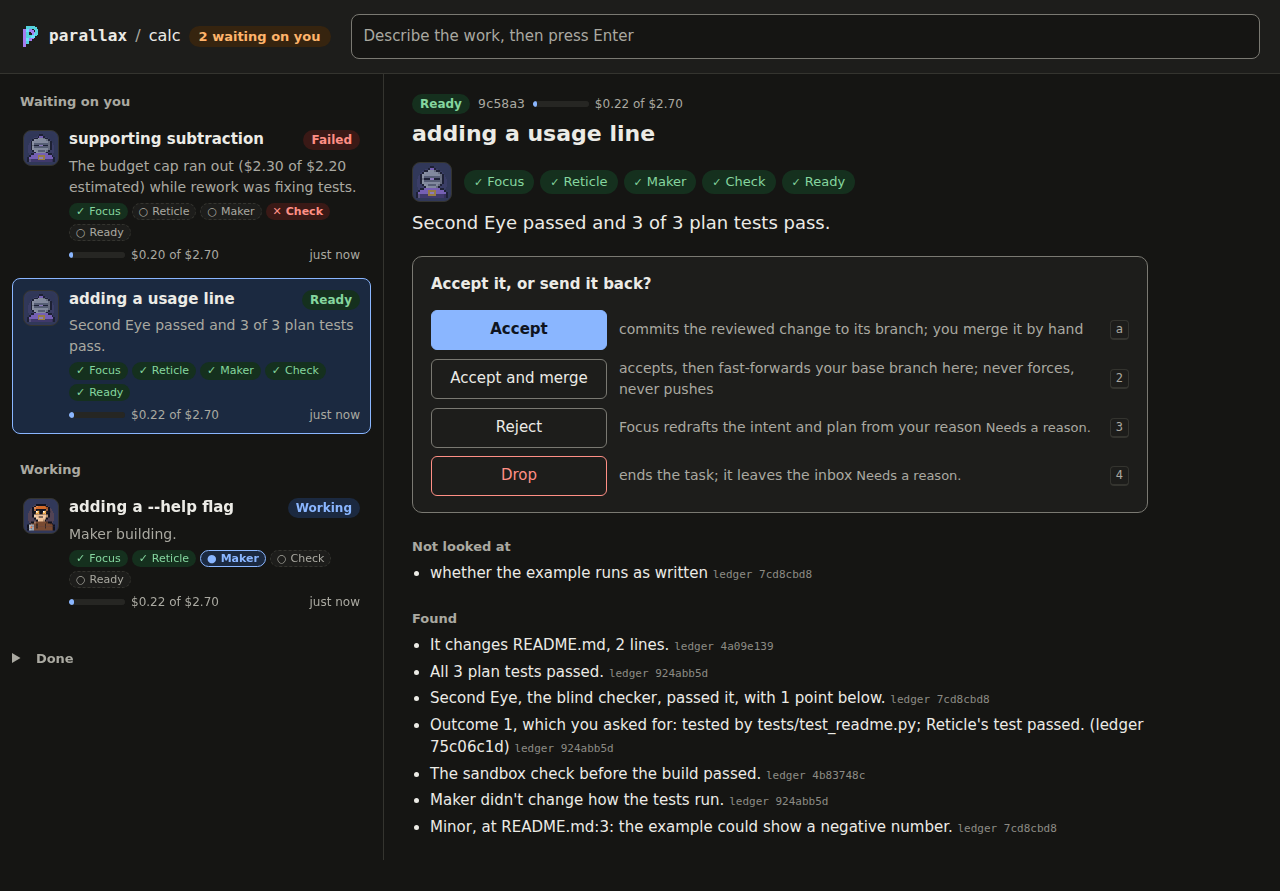
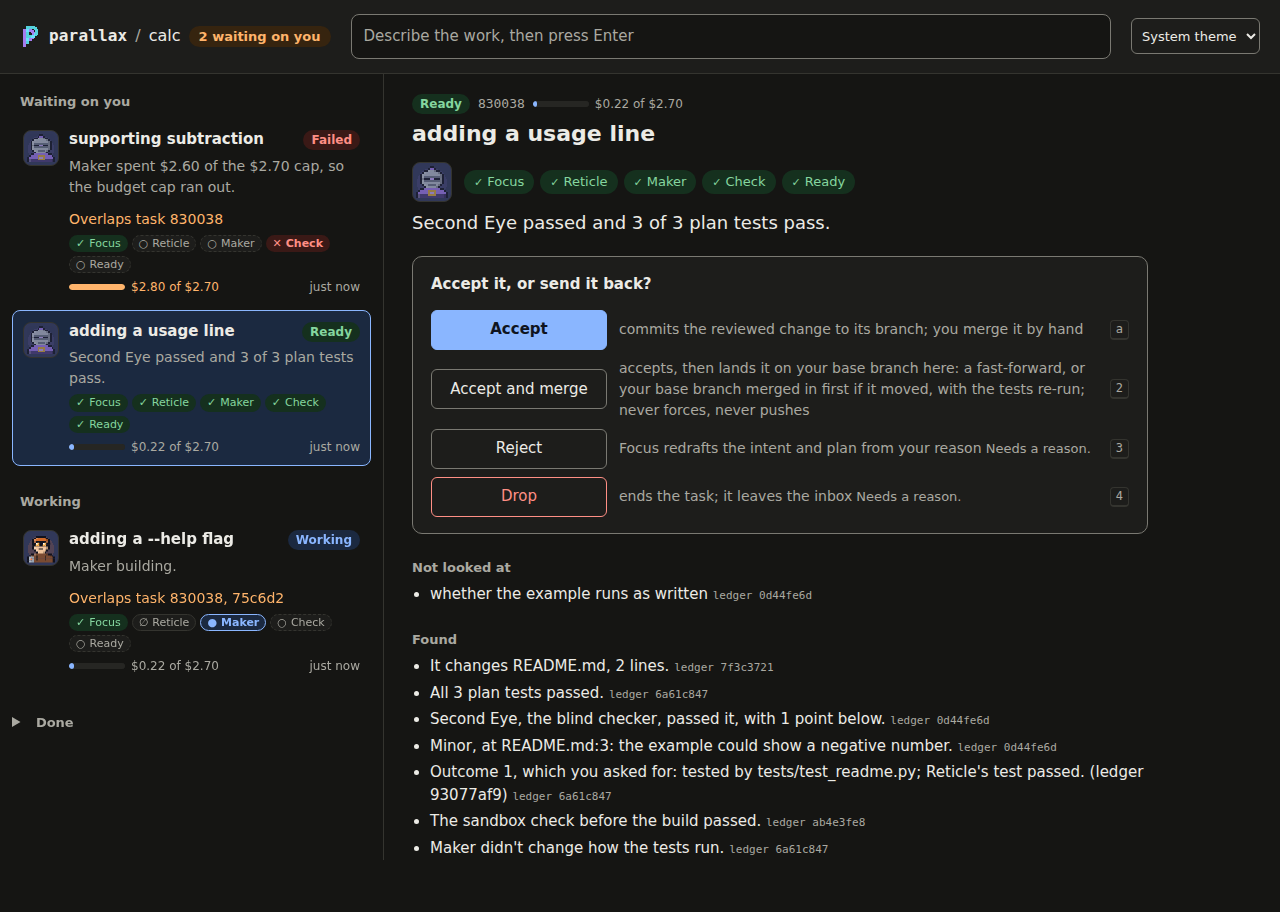
README images on today's UI: the demo GIF and the Ready card
The demo is re-recorded with scripts/demo.py, with the theme picker. The
Ready card, light and dark, is retaken with scripts/ui_sweep.py: Accept
and merge's current wording, and the cap message as today's code writes
it. The sweep now chooses a spending mode first, as the demo does, and
stops its capped task through costs.stop_at_cap instead of a fixed string.
The alt text drops the Ask box, which the picture doesn't show.

Claude-Session: https://claude.ai/code/session_015J6ukNwr1mf9phs8LoaHUz

diff --git a/scripts/ui_sweep.py b/scripts/ui_sweep.py
@@ -42,6 +42,8 @@ def project():
     subprocess.run(["git", "-C", str(repo), "commit", "-qm", "init"], check=True)
     gates.make_key()
     proj = Project.init(repo)
+    from parallax import budgets, costs
+    budgets.choose(proj, "ask")  # the shots show tasks, not the first-run spending question
     build._spawn = lambda argv, env, cwd, log: os.getpid()  # a live process, so the working task stays working
 
     class Writer:  # Reticle's test of what was asked: fails on the typo, passes once it's fixed
@@ -86,8 +88,10 @@ def project():
     for _ in range(2):
         proj.ledger.append("tests.recorded", "parallax", "", task=stuck, tree="t", exit=1,
                            per_file={"tests/test_readme.py": [1, 3, 0]}, passed=1, total=3, harness_reset=[])
-    proj.ledger.append("stuck.raised", "parallax", "the budget cap ran out ($2.30 of $2.20 estimated) while rework was fixing tests",
-                       task=stuck, budget=True)
+    cap = costs.budget(proj, stuck, lifecycle.plan_data(proj, stuck))[0]  # Maker spends past it in rework
+    proj.ledger.append("maker.finished", "maker", "", task=stuck, stage="rework", status="done",
+                       cost_usd=round(cap - costs.spent(proj, stuck) + 0.10, 2))
+    costs.stop_at_cap(proj, stuck, cap, "rework was fixing tests")  # the card's words come from today's code
     proj.ledger.append("builder.finished", "parallax", "", task=stuck, status="stuck")
     working = pilot.intake(proj, "adding a --help flag")["task"]
     pilot.draft_until_fit(proj, working, FakeDrafter(docs("adding a --help flag", "calc --help prints the usage.")))

diff --git a/README.md b/README.md
@@ -61,7 +61,7 @@ You can start work from the app or the terminal, and pick it back up several way
 
 <picture>
   <source media="(prefers-color-scheme: dark)" srcset="docs/ui-runs/final-ui/ready-dark.png">
-  <img src="docs/ui-runs/final-ui/ready.png" alt="A Ready card: the stage strip with the last agent's portrait in its tile, the bottom line, one question with Accept, Accept and merge, Reject and Drop, what wasn't looked at, the evidence in plain sentences with quiet ledger links, and the Ask box" width="1280">
+  <img src="docs/ui-runs/final-ui/ready.png" alt="A Ready card: the stage strip with the last agent's portrait in its tile, the bottom line, one question with Accept, Accept and merge, Reject and Drop, what wasn't looked at, and the evidence in plain sentences with quiet ledger links, beside the list of tasks" width="1280">
 </picture>
 
 **Ready** means the listed checks passed: the plan's tests ran on the exact reviewed tree, the card says for each outcome in the intent which test that ran covers it or that none does, and Second Eye found nothing blocking. It does not mean the code is bug-free. **Needs you** means one decision only you can make; the card says whose call it is and why a person has to make it. Anything that sends work back, drops it or accepts a risk asks for a one-line reason, and Focus redrafts from it.
